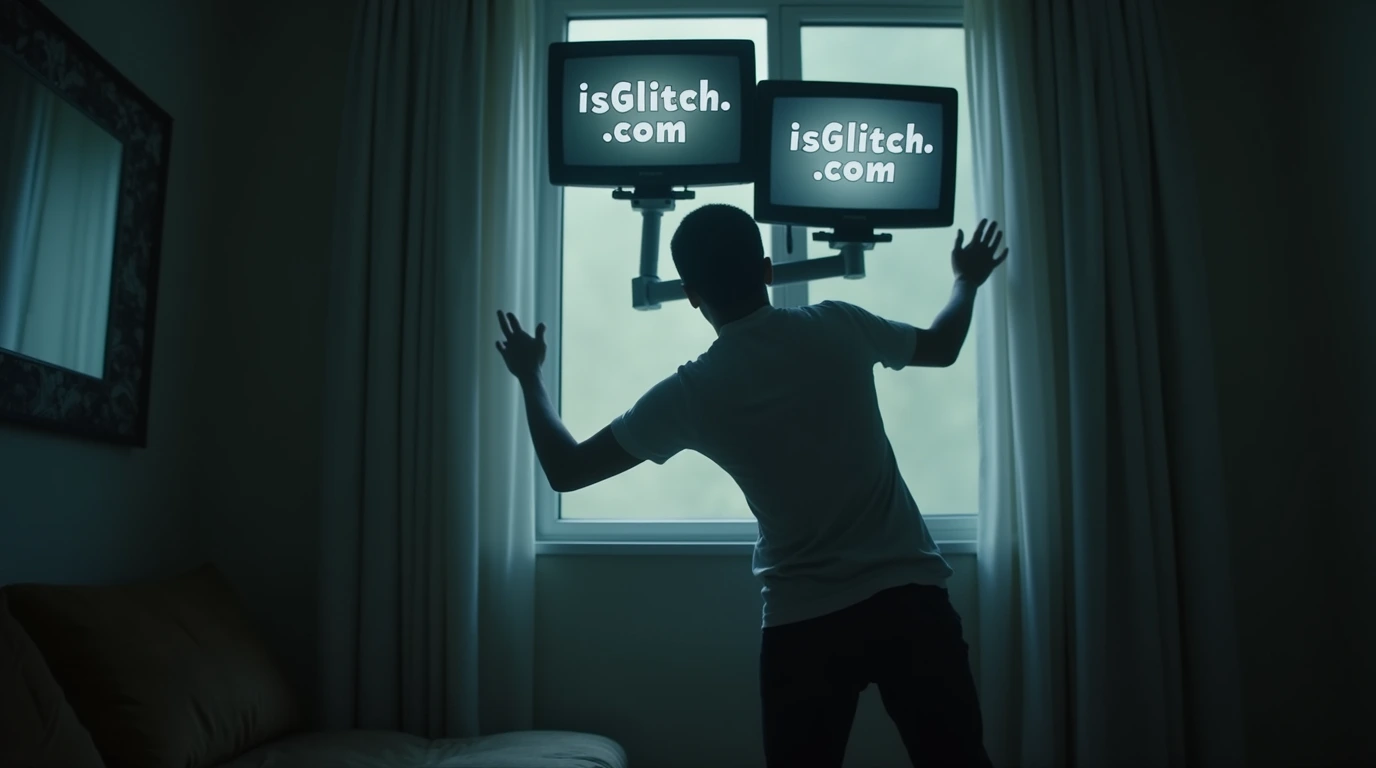
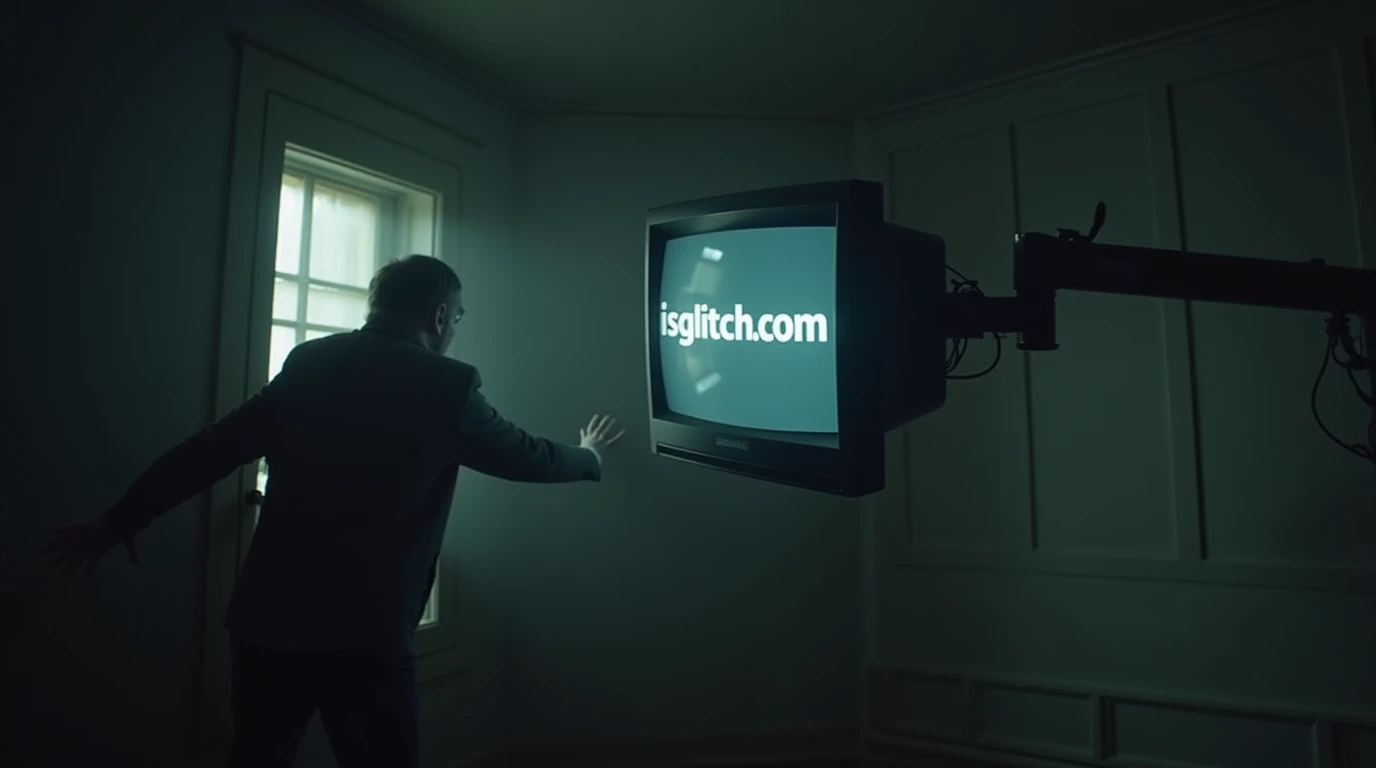
20241127 update

diff --git a/src/data/articles.ts b/src/data/articles.ts
@@ -5149,7 +5149,7 @@ export const articlesData = [
         articleUrl: `20241127-new-tv-wont`,
         category: `tech`,
         img: `/images/20241127-new-tv-wont.webp`,
-        alt: `A person attempting to escape through a window from a TV.`,
+        alt: `A TV on a mechanical arm forcing a man to watch it.`,
         header: `New TV Won't Power Down Until You Meet Your Daily Ad Quota`,
         subhead: `Trade Desk says feature promotes "mindful media consumption"`,
         tags: [`The Trade Desk`, `Smart TVs`],
